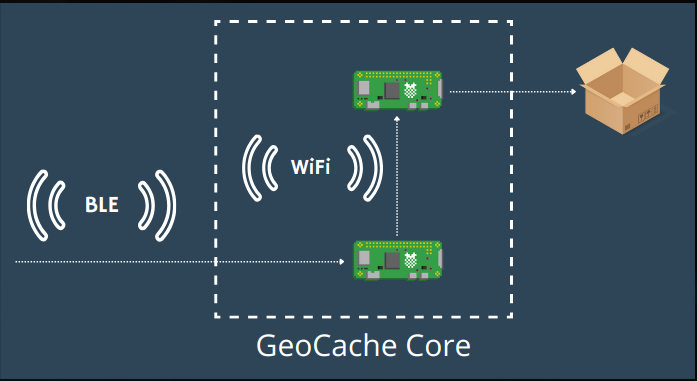
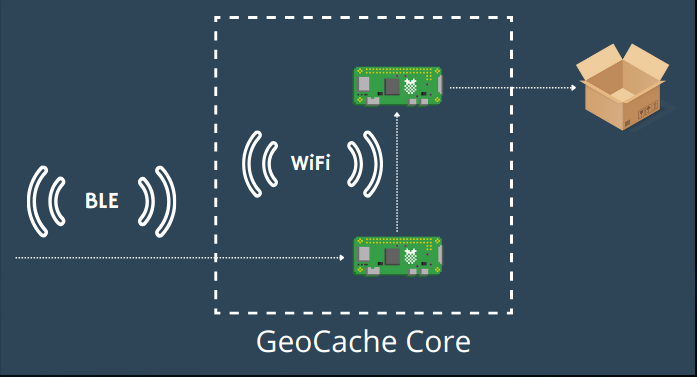
Broker BLE

diff --git a/nodes/README.md b/nodes/README.md
@@ -5,12 +5,23 @@ In this section we'll be approaching our systems deployed nodes, which are compr
 ![system architecture](images/system_architecture.png)
 
 ---
+# Development Environment
+The systems developed in this sections are [ESP32-DEVKITC](https://www.digikey.pt/pt/products/detail/espressif-systems/ESP32-DEVKITC-32D/9356990?utm_adgroup=&utm_term=&productid=9356990&utm_content=&gad_source=1) and [ESP32CAM](https://www.ptrobotics.com/sensor-camera/7112-esp32-cam-wifi-and-bluetooth-module-w-camera-ov2640-2mp.html) micro-controllers. This devices are cheap, available and being based on the ESP32 **MCU**, offer WiFi and Bluetooth built-in. [^1]
+
+The ESP32 can be programmed using the VSCode plugin [ESP-IDF](https://docs.espressif.com/projects/esp-idf/en/latest/esp32/get-started/index.html#introduction), which enables to program directly in the board native functions and registers, with no framework or translation layer.
+However, in our case, we chose to develop using the [Arduino Framework](https://www.arduino.cc/) directly in VSCode, with the [PlatformIO](https://platformio.org/)  plugin. This approach allowed use to developed, flash and monitor code for the ESP32 all in one platform.
+
+---
 ## GeoCache
 
 The GeoCache is the node that represents and interacts with the items and the compartment itself. It's responsible to:
 * Be visible and be visible to be found and located by an user
 * Exchange authorization information with the user and the Geocaching network, by intermediary of the Broker
 * If the user was authorized, open the Box for him to interact and then close it
+
+As can be viewed in the image bellow, this node uses three communication technologies, BLE, WiFi and LoRa. Each of this technologies and their objectives will be developed in the following sections.
+
+![GeoCache core](images/GeoCache_core.png)
 
 The final appearance of the GeoCache can be viewed in the following images:
 
@@ -23,13 +34,140 @@ The final appearance of the GeoCache can be viewed in the following images:
     <img src="./images/Geocache_2.jpg" width="300" />
 </p>-->
 
+According to the **Arduino** Framework structure, the main file containing the code of the ESP32 has to have a `setup` and `loop` functions, which will configure the micro-controller and execute repeated tasks, respectively. This function is located in the [geocache folder](./geocache/src/main.cpp) and it's worth noting to point the configuration order of the services:
+```c++
+void setup() {
+    // Initialize Serial Monitor
+    Serial.begin(115200);
+    while (!Serial)
+        ;
+    Serial.println("GeoCache Terminal ready");
+    Serial.println();
+
+    // Setup BLE Server
+    bleServer.setup();
+
+    // Setup wifi with box opener
+    wifiClient.connect();
+
+    // Setup LoRa868
+    while (!lora.configure(VERBOSE))
+        delay(3000);
+
+    // Create LoRa Task to receive data
+    //xTaskCreate(receive_lora, "receive_lora", 8000, NULL, 1, &loraTask);
+
+    // Create BLE Task to receive data
+    xTaskCreate(receive_ble, "receive_ble", 8000, NULL, 1, &bleTask);
+
+    Serial.println();
+}
+```
+
 ### Communication with User Device
 
-As visible by the image, 
+The GeoCache establishes communication with the User Device using BLE. It creates a BLE Server with the name **GeoCache_x** where `x` is the node id of the GeoCache.
+The User Device can then scan for the GeoCaches with the configured name and upon connection can verify their authenticity by connection to the right `service.characteristic` **Universally Unique Identifier (UUID)**.
 
 #### BLE
 
+Following an object-oriented approach and a good development structure in C/C++, we kept separate files for the declarations and source code. The [header](./geocache/include/bleServer.h) is located at `./geocache/include/bleServer.h` and [src](./geocache/src/bleServer.cpp) at `./geocache/src/bleServer.cpp`.
+Analyzing the `BleServer` class, we first have macros to define the maximum **MTU** for the ESP32, as well as for our **Service** and **Characteristic**:
+```c++
+//! Maximum Transmission Unit for BLE communication, it's 251 since esp32s
+//   have Bluetooth 4.2
+#define BLE_MTU 251
+//! Unique identifier for the BLE service
+#define SERVICE_UUID "4fafc201-1fb5-459e-8fcc-c5c9c331914b"
+//! Unique identifier for the BLE characteristic
+#define CHARACTERISTIC_UUID "beb5483e-36e1-4688-b7f5-ea07361b26a8"
+```
+
+Then we have the `callbacks` which are part of the `BleServer` class and used just to signal the server that can be used to trigger certain operations in the server, when a signal from the client is received. In this case we are only using it to signal that a client has connected/disconnected from the Server:
+```c++
+/*! \class MyBLEServerCallbacks
+    \brief Callbacks for BLE server events.
+*/
+class MyBLEServerCallbacks : public BLEServerCallbacks {
+    /*!< pointer to the parent BleClient object. */
+    BleServer* parent;
+
+    public:
+    /*! \brief Constructor for MyBLEServerCallbacks.
+        \param parent A pointer to the parent BleClient object.
+    */
+    MyBLEServerCallbacks(BleServer* parent) : parent(parent) {}
+
+    /*! \brief Handles connection event.
+        \param pServer Pointer to the BLE server.
+    */
+    void onConnect(BLEServer* pServer) { parent->connected = true; }
+
+    /*! \brief Handles disconnection event.
+        \param pServer Pointer to the BLE server.
+    */
+    void onDisconnect(BLEServer* pServer) {
+        parent->connected = false;
+        BLEDevice::startAdvertising();
+    }
+};
+```
+
+The configuration/setup of the BLE server starts by creating the Server with the defined name, creating the Service, setting up callbacks and then configuring the Characteristic. The remaining steps are just setting up a default value of the characteristic, start the service and then just configurations for better scanning:
+```c++
+void BleServer::setup() {
+    String deviceName = "GeoCache_" + String(nodeId);
+    BLEDevice::init(deviceName.c_str());
+    pServer = BLEDevice::createServer();
+    pService = pServer->createService(SERVICE_UUID);
+    pServer->setCallbacks(new MyBLEServerCallbacks(this));
+    pCharacteristic = pService->createCharacteristic(
+        CHARACTERISTIC_UUID,
+        BLECharacteristic::PROPERTY_READ | BLECharacteristic::PROPERTY_WRITE);
+    //pCharacteristic->setMTU(512); // Set your desired MTU size here - only for BT 5.0 and above
+    pCharacteristic->setValue("/");
+    pService->start();
+    BLEAdvertising* pAdvertising = BLEDevice::getAdvertising();
+    pAdvertising->addServiceUUID(SERVICE_UUID);
+    pAdvertising->setScanResponse(true);
+    pAdvertising->setMinPreferred(
+        0x06);  // functions that help with iPhone connections issue
+    pAdvertising->setMinPreferred(0x12);
+    BLEDevice::startAdvertising();
+    
+    Serial.println("BLE, Gateway visible to other ble devices!");
+    Serial.println();
+}
+```
+
+Some of the code used here as gathered from arduino example for BLE by Evandro Copercini and Neil Kolban [^2] and tutorial by MoThunderz [^3]
+
 #### Message Types
+
+Located in the `shared/message` folder is the **BleMessage** class, which creates and stores in the ESP32 *heap* a message. The [Header](./shared/message/include/message.h) and [Src](./shared/message/src/message.cpp) are located in the same folder.
+
+Theres only two message types:
+* **open_request**, to ask the GeoCache to open and has the following fields:
+    * *Message Type*: 2 bytes
+    * *Packet ID*: 4 bytes
+    * *User ID*: 2 bytes
+* **open_response**: GeoCache transmits the user, the authorization result (not used):
+    * *Message Type*: 2 bytes
+    * *Packet ID*: 4 bytes
+    * *Authorized*: 1 byte
+
+With the use of this classes, to send a message, only the following code would be needed:
+```c++
+size_t sendMsgSize;
+uint8_t* msgToSend = bleMsgClass.open_request(
+    sendMsgSize, bleClient.get_packet_count(), USER_ID);
+
+bleClient.send(msgToSend, sendMsgSize);
+```
+
+#### Extras
+
+To test the BLE server while the BLE app for Android was being developed, we created the [User Device](./userDevice/src/main.cpp) node, which would connect to the Server and periodically signal it to open the GeoCache. For this, we also developed a **BleClient** class with dedicated [Header](./userDevice/include/bleClient.h) and [Src](./userDevice/src/bleClient.cpp) files. We won't be discussing them here, since the scope of the project would be to work with the BLE app, which is also explained in another section.
 
 ### Communication with Broker
 
@@ -59,3 +197,11 @@ As visible by the image,
 
 ---
 ## Future Work
+
+
+---
+# References
+
+[^1]: ESP32 product page: https://www.espressif.com/en/products/socs/esp32
+[^2]: BLE example: https://github.com/nkolban/esp32-snippets/blob/master/cpp_utils/tests/BLE%20Tests/SampleServer.cpp
+[^3]: BLE tutorial: https://www.youtube.com/watch?v=0Yvd_k0hbVs&t=138s
